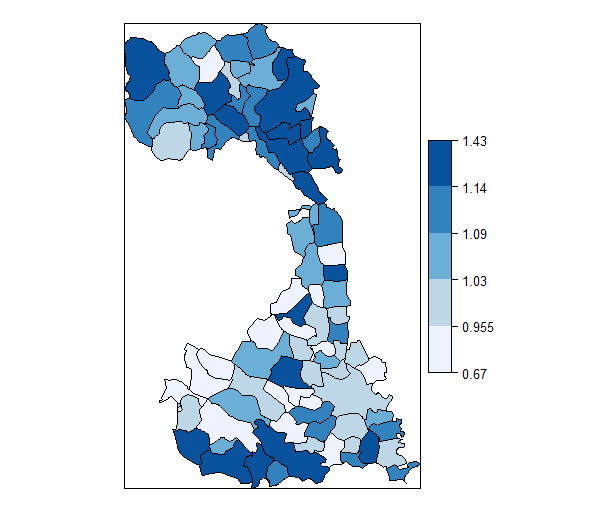
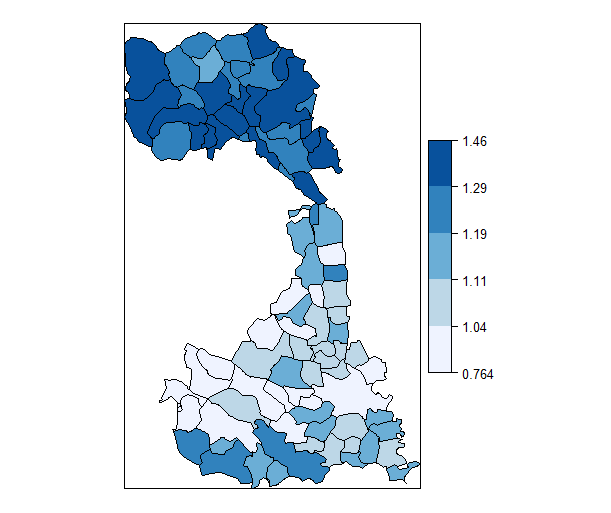
errata corrige

diff --git a/09ExampleDiseaseMapping/main.html b/09ExampleDiseaseMapping/main.html
@@ -131,27 +131,27 @@ plot(vcmap)</pre>
 </article></slide><slide class=''><hgroup><h2>Import data</h2></hgroup><article  id="import-data">
 
 <pre class = 'prettyprint lang-r'>#import db with observed and expected cases----
-db=read.csv(&#39;data\\db.csv&#39;,sep=&#39;;&#39;)
+db &lt;- read.csv(&#39;data\\db.csv&#39;,sep=&#39;;&#39;)
 
 ## workout to merge municipalities  on your db with municipalities on the map object---
-db$comune=tolower(db$COMUNE)
+db$comune &lt;- tolower(db$COMUNE)
 
-comuni=vcmap[,&#39;NAME_3&#39;]@data
-comuni[,1]=tolower(as.character(comuni[,1]))
-a=setdiff(sort(tolower(as.character(comuni[,1]))),db$comune)
-comuni[match(a,comuni[,1]),1]=&quot;borgo d&#39;ale&quot;
-db.comuni=merge(comuni, db, by.y=&#39;comune&#39;, by.x=&#39;NAME_3&#39;, sort=F)</pre>
+comuni &lt;- vcmap[,&#39;NAME_3&#39;]@data
+comuni[,1] &lt;- tolower(as.character(comuni[,1]))
+a &lt;- setdiff(sort(tolower(as.character(comuni[,1]))),db$comune)
+comuni[match(a,comuni[,1]),1 &lt;- &quot;borgo d&#39;ale&quot;
+db.comuni &lt;- merge(comuni, db, by.y=&#39;comune&#39;, by.x=&#39;NAME_3&#39;, sort=F)</pre>
 
 </article></slide><slide class=''><hgroup><h2>Create spatial objects</h2></hgroup><article  id="create-spatial-objects">
 
 <pre class = 'prettyprint lang-r'>### create spatial dataframe of observed and expected----
-vcmap=SpatialPolygonsDataFrame(vcmap,db.comuni,match.ID=F)
+vcmap &lt;- SpatialPolygonsDataFrame(vcmap,db.comuni,match.ID=F)
 
 ### - Create adjacency matrix-----
-vcnb=poly2nb(vcmap)
+vcnb &lt;- poly2nb(vcmap)
 
 ### Create weights------
-vcWBweights=nb2WB(vcnb)</pre>
+vcWBweights &lt;- nb2WB(vcnb)</pre>
 
 </article></slide><slide class=''><hgroup><h2>Model definition</h2></hgroup><article  id="model-definition">
 
@@ -162,10 +162,10 @@ vcWBweights=nb2WB(vcnb)</pre>
 </article></slide><slide class=''><hgroup><h2>Model definition</h2></hgroup><article  id="model-definition-1">
 
 <pre class = 'prettyprint lang-r'>model=function() {
-  for(i in 1:N){
+ for(i in 1:N){
     O[i]~dpois(mu[i])
     mu[i]&lt;-theta[i]*E[i]
-    log(theta[i])&lt;- u[i]+v[i]
+    log(theta[i])&lt;- alpha+u[i]+v[i]
     u[i]~dnorm(0,precu)
     SMR[i]&lt;-O[i]/E[i]
     prob[i]&lt;-step(theta[i]-1)
@@ -173,6 +173,7 @@ vcWBweights=nb2WB(vcnb)</pre>
   v[1:N]~car.normal(adj[],weights[],num[],precv)
   precu~dgamma(0.001,0.001)
   precv~dgamma(0.001,0.001)
+  alpha ~ dflat()
   sigmau&lt;-1/precu
   sigmav&lt;-1/precv
 }</pre>
@@ -180,18 +181,18 @@ vcWBweights=nb2WB(vcnb)</pre>
 </article></slide><slide class=''><hgroup><h2>Make the model operative</h2></hgroup><article  id="make-the-model-operative">
 
 <pre class = 'prettyprint lang-r'>## define and run model------
-mfile=paste(getwd(), &quot;/model.txt&quot;, sep = &quot;&quot;, collapse = &quot;&quot;)
-tdir=paste(getwd(), &quot;/Endoutput&quot;, sep = &quot;&quot;, collapse = &quot;&quot;)
+mfile &lt;- paste(getwd(), &quot;/model.txt&quot;, sep = &quot;&quot;, collapse = &quot;&quot;)
+tdir &lt;- paste(getwd(), &quot;/Endoutput&quot;, sep = &quot;&quot;, collapse = &quot;&quot;)
 dir.create(tdir)
 write.model(model,mfile)</pre>
 
 </article></slide><slide class=''><hgroup><h2>Initialize and run the model</h2></hgroup><article  id="initialize-and-run-the-model">
 
-<pre class = 'prettyprint lang-r'>d=list(O=vcmap$OSS,E=vcmap$ATT, N=86)
-inits1=list(u=rep(0,86),v=rep(0,86),precu=1,precv=1)
+<pre class = 'prettyprint lang-r'>d &lt;- list(O=vcmap$OSS,E=vcmap$ATT, N=86)
+inits1 &lt;- =list(u=rep(0,86),v=rep(0,86),precu=1,precv=1, alpha=0.5)
 #inits2=list(u=rep(1,86),v=rep(1,86),precu=0.1,precv=0.1)
 
-res= bugs(data = c(d, vcWBweights),
+res &lt;- bugs(data = c(d, vcWBweights),
           inits = list(inits1),
           parameters.to.save = c(&quot;u&quot;, &quot;v&quot;, &quot;theta&quot;,&quot;prob&quot;, &quot;sigmau&quot;, &quot;sigmav&quot;),
           model.file = mfile, debug=T,
@@ -203,22 +204,22 @@ res= bugs(data = c(d, vcWBweights),
 </article></slide><slide class=''><hgroup><h2>Add the result to the map</h2></hgroup><article  id="add-the-result-to-the-map">
 
 <pre class = 'prettyprint lang-r'>### add results to map object------
-vcmap$prob=res$mean$prob
-vcmap$theta=res$mean$theta
-vcmap$u=res$mean$u
-vcmap$v=res$mean$v
-logfile=paste(getwd(), &quot;/Endoutput/log.txt&quot;, sep = &quot;&quot;, collapse = &quot;&quot;)
-reslog= bugs.log(file = logfile)</pre>
+vcmap$prob &lt;- res$mean$prob
+vcmap$theta &lt;- res$mean$theta
+vcmap$u &lt;- res$mean$u
+vcmap$v &lt;- res$mean$v
+logfile &lt;- paste(getwd(), &quot;/Endoutput/log.txt&quot;, sep = &quot;&quot;, collapse = &quot;&quot;)
+reslog &lt;- bugs.log(file = logfile)</pre>
 
 </article></slide><slide class=''><hgroup><h2>Set colors and legend</h2></hgroup><article  id="set-colors-and-legend">
 
 <pre class = 'prettyprint lang-r'>### plot the map-----
-fbreaks=c(min(vcmap$theta)-0.1, quantile(vcmap$theta, probs=c(0.2,0.4,0.6,0.8)),
+fbreaks &lt;- c(min(vcmap$theta)-0.1, quantile(vcmap$theta, probs=c(0.2,0.4,0.6,0.8)),
           max(vcmap$theta)+0.1)
-thetaint=classIntervals(vcmap$theta, n=5, style=&quot;fixed&quot;,
+thetaint &lt;- classIntervals(vcmap$theta, n=5, style=&quot;fixed&quot;,
                         fixedBreaks=fbreaks) 
-cols=brewer.pal(5, &#39;Blues&#39;) 
-cktheta=list(labels=as.character(formatC(thetaint$brks, digits=3)),
+cols &lt;- brewer.pal(5, &#39;Blues&#39;) 
+cktheta &lt;-list(labels=as.character(formatC(thetaint$brks, digits=3)),
              at=(0:5)/5, height=.5)</pre>
 
 </article></slide><slide class=''><hgroup><h2>Plot the map</h2></hgroup><article  id="plot-the-map">
